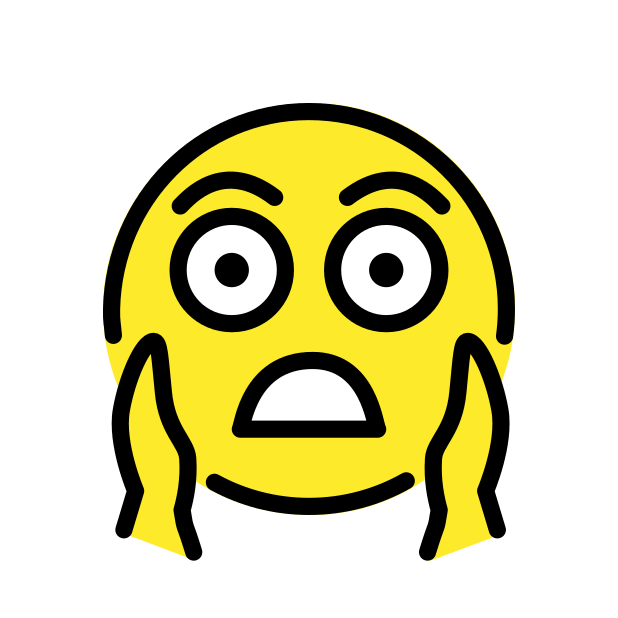
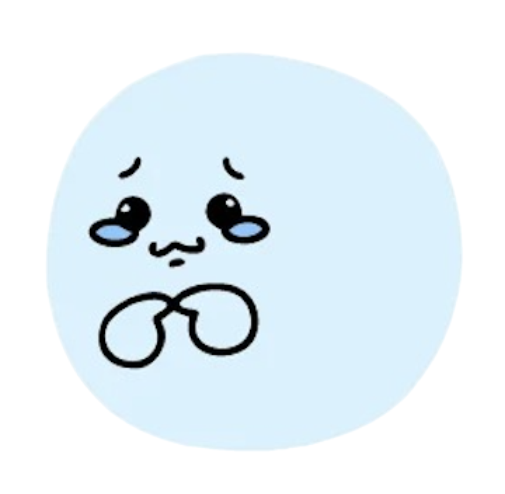
Clean up the web demo and move the report and screenshot under docs/
- one image per emotion using the canonical label names (fear/neutual/
  surprise renamed; the three mismatched emoji icons dropped)
- remove references to files that never existed (favicon, fonts,
  background image, arrow icon) and the unused css/ and empty js/ files
- API base is same-origin when served by Flask, localhost when opened
  from disk; a failed prediction now shows an error instead of picking a
  random emotion; recorded audio is sent with a filename
- drop the placeholder "Accent" section and mailto buttons; section text
  is now readable on the grey background
- docs/report.pdf (renamed) and a 1 MB screenshot instead of the 2.8 MB one

diff --git a/frontend/index.html b/frontend/index.html
@@ -3,51 +3,17 @@
 <head>
     <meta charset="UTF-8">
     <meta name="viewport" content="width=device-width, initial-scale=1.0">
-    <link rel="shortcut icon" type="image/png" href="./images/logo.png" />
-    <title>Emotion detection</title>
-    <meta name="keywords" content="Your name, description, keywords" />
+    <title>Speech Emotion Recognition</title>
     <link rel="stylesheet" href="//cdnjs.cloudflare.com/ajax/libs/normalize/5.0.0/normalize.min.css">
     <link rel="stylesheet" href="https://cdnjs.cloudflare.com/ajax/libs/Swiper/3.4.2/css/swiper.min.css">
     <link rel="stylesheet" href="https://fonts.googleapis.com/css?family=Open+Sans:300,400,700,800">
+    <link rel="stylesheet" href="https://fonts.googleapis.com/css?family=Jost:400&display=swap">
     <link rel="stylesheet" href="https://cdnjs.cloudflare.com/ajax/libs/font-awesome/6.0.0-beta3/css/all.min.css">
     <style>
-        /* CSS styles here */
-        /* (Include all the CSS from the provided files) */
-        /* Basic Setup */
-        
-
-        @font-face {
-            font-family: 'Hk Grotesk';
-            font-style: normal;
-            font-weight: 400;
-            src: url('./fonts/HKGrotesk-Regular.woff') format('woff');
-        }
-
-        @font-face {
-            font-family: 'Jost';
-            font-style: normal;
-            font-weight: 400;
-            src: url('./fonts/Jost-Regular.ttf') format('woff');
-        }
-
         /* --------------------------------------- */
         /* ----- Basic Setup ----- */
         /* --------------------------------------- */
 
-        @font-face {
-            font-family: 'Hk Grotesk';
-            font-style: normal;
-            font-weight: 400;
-            src: url('./fonts/HKGrotesk-Regular.woff') format('woff');
-        }
-
-        @font-face {
-            font-family: 'Jost';
-            font-style: normal;
-            font-weight: 400;
-            src: url('./fonts/Jost-Regular.ttf') format('woff');
-        }
-        
         * {
             margin: 0;
             padding: 0;
@@ -107,8 +73,6 @@
             font-weight: 400;
             color: var(--white);
             line-height: var(--line-height-normal);
-            background: linear-gradient(rgba(0,0,0, .1), rgba(0,0,0, .4)), 
-            url('./background/background.jpg');
             background: var(--light-grey);
             overflow-x: hidden;
         }
@@ -506,8 +470,7 @@
 
         .header {
             position: relative;
-            background: linear-gradient(rgba(0,0,0, .1), rgba(0,0,0, .4)), 
-                url('./background/background.jpg');
+            background: linear-gradient(rgba(0,0,0, .1), rgba(0,0,0, .4));
             height: 100vh;
             background-size: cover;
             background-position: center;
@@ -572,6 +535,7 @@
         /* ----- Work ----- */
         /* --------------------------------------- */
         .work {
+            color: var(--black);  /* body text is white for the header; sections sit on light grey */
             display: flex;  /* Establishes this section as a flex container */
             flex-direction: column;  /* Stacks flex items vertically */
             align-items: center;  /* Centers the heading horizontally */
@@ -813,7 +777,6 @@
         <nav class="nav" role="navigation">
             <ul class="nav__items">
                 <li class="nav__item"><a href="#emotion" class="nav__link">Emotion</a></li>
-                <li class="nav__item"><a href="#accent" class="nav__link">Accent</a></li>
                 <li class="nav__item"><a href="#about" class="nav__link">About</a></li>
             </ul>
         </nav>
@@ -879,35 +842,33 @@
             <div id="uploadStatus" style="margin-top: 10px;"></div>
         </section>
 
-        <section class="work" id="accent">
-            <h2>Accent</h2>
-            <p> 
-                Test where are you from? 
-            </p>
-    
-        </section>
-
         <section class="work" id="about">
-            
             <h2>About</h2>
             <p>
-                Any details.
+                Record a few seconds of speech or upload an audio file, and the page sends it to
+                the local prediction server. Audio is classified by a DistilHuBERT model fine-tuned
+                on the RAVDESS dataset. Built for the Computational Linguistics Team Laboratory
+                (Phonetics) at the University of Stuttgart.
             </p>
-            <a href="mailto:example@example.com" class="btn">st196012@stud.uni-stuttgart.de</a>
-            <a href="mailto:example@example.com" class="btn">st193913@stud.uni-stuttgart.de</a>
+            <a href="https://github.com/amnesiackid/automatic-speech-emotion-recognition-on-ravdess" class="btn">Source code</a>
+            <a href="https://huggingface.co/amnesiackid/distilhubert-finetuned-ravdess" class="btn">Model on Hugging Face</a>
         </section>
     </main>
 
     <footer role="contentinfo" class="footer">
         <p>
-            &copy; 2025 - Portfolio by Feiyang Yang. All rights reserved.
+            &copy; 2025 Feiyang Yang and Zhiyu Bao. Speech Emotion Recognition, CL Team Lab, University of Stuttgart.
         </p>
     </footer>
 
     <a href="#top" class="back-to-top" title="Back to Top">
-        <img src="./images/arrow-up.svg" alt="Back to Top"/>
+        <span aria-hidden="true">&#8593;</span>
     </a>
     <script>
+        // When the page is served by the Flask app (python server/app.py) the API is same-origin.
+        // When opened directly from disk (file://) it falls back to the default local server.
+        const API_BASE = window.location.protocol.startsWith('http') ? '' : 'http://127.0.0.1:5000';
+
         class EmotionDetector {
             constructor() {
                 this.isRecording = false;
@@ -981,29 +942,25 @@
                 try {
                     const formData = new FormData();
                     formData.append('audio', file);
-                    
-                    // Replace with your model's API endpoint
-                    const response = await fetch('http://127.0.0.1:5000/predict', {
+
+                    const response = await fetch(`${API_BASE}/predict`, {
                         method: 'POST',
                         body: formData,
                     });
-                    
+
                     if (!response.ok) {
-                        throw new Error('Model API request failed');
+                        throw new Error(`Prediction request failed (${response.status})`);
                     }
-                    
+
                     const result = await response.json();
-                    
+
                     return {
-                        emotion: result.emotion || result.predicted_emotion,
-                        confidence: result.confidence || result.probability,
+                        emotion: result.emotion,
+                        confidence: result.confidence,
                     };
-                    
+
                 } catch (error) {
-                    console.error('Error calling emotion detection model:', error);
-                    
-                    // Fallback: simulate emotion detection for demo purposes
-                    return this.simulateEmotionDetection();
+                    return this.serverUnavailable(error);
                 }
             }
 
@@ -1096,63 +1053,45 @@
             }
 
             async detectEmotion(audioBuffer) {
-                // This is where you'll integrate with your speech emotion recognition model
-                // Replace this with your actual model API call
-                
                 try {
-                    // Example API call structure - replace with your actual endpoint
                     const formData = new FormData();
                     const audioBlob = new Blob([audioBuffer], { type: 'audio/webm' });
-                    formData.append('audio', audioBlob);
-                    
-                    // Replace with your model's API endpoint
-                    const response = await fetch('http://127.0.0.1:5000/predict', {
+                    formData.append('audio', audioBlob, 'recording.webm');
+
+                    const response = await fetch(`${API_BASE}/predict`, {
                         method: 'POST',
                         body: formData,
-                        headers: {
-                            // Add any required headers for your API
-                            // 'Authorization': 'Bearer YOUR_API_KEY',
-                            // 'Content-Type': 'multipart/form-data'
-                        }
                     });
-                    
+
                     if (!response.ok) {
-                        throw new Error('Model API request failed');
+                        throw new Error(`Prediction request failed (${response.status})`);
                     }
-                    
+
                     const result = await response.json();
-                    
-                    // Process the response according to your model's output format
+
                     return {
-                        emotion: result.emotion || result.predicted_emotion,
-                        confidence: result.confidence || result.probability,
-                        // Add other fields as needed
+                        emotion: result.emotion,
+                        confidence: result.confidence,
                     };
-                    
+
                 } catch (error) {
-                    console.error('Error calling emotion detection model:', error);
-                    
-                    // Fallback: simulate emotion detection for demo purposes
-                    // Remove this when you have your actual model integrated
-                    return this.simulateEmotionDetection();
+                    return this.serverUnavailable(error);
                 }
             }
 
-            // Demo function - remove when you have your actual model
-            simulateEmotionDetection() {
-                const emotions = ['happy', 'sad', 'angry', 'fear', 'surprise', 'disgust', 'neutral'];
-                const randomEmotion = emotions[Math.floor(Math.random() * emotions.length)];
-                const confidence = Math.random() * 0.4 + 0.6; // 60-100% confidence
-                
-                return {
-                    emotion: randomEmotion,
-                    confidence: confidence
-                };
+            serverUnavailable(error) {
+                console.error('Error calling the prediction server:', error);
+                this.status.textContent =
+                    'Could not get a prediction. Is the server running? (python server/app.py)';
+                return null;
             }
 
             highlightEmotion(result) {
                 this.clearEmotionHighlights();
-                
+                if (!result) {
+                    return;
+                }
+
                 const emotionCard = document.querySelector(`[data-emotion="${result.emotion}"]`);
                 if (emotionCard) {
                     emotionCard.classList.add('active');
